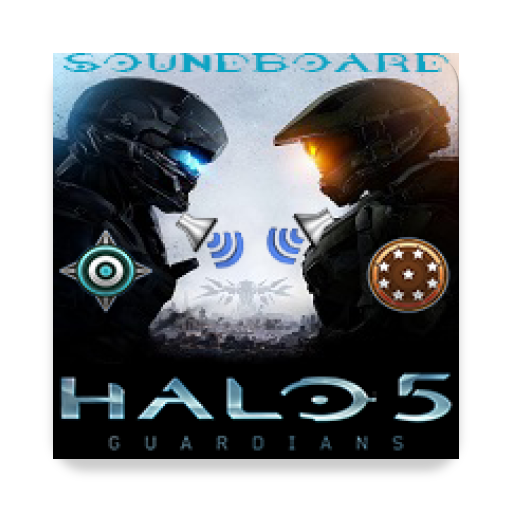
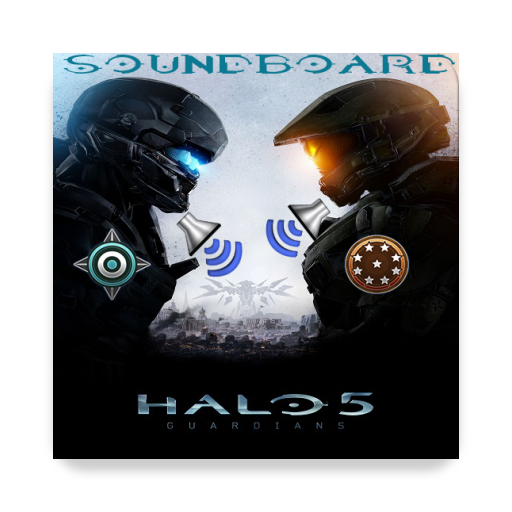
Changed borders to black and removed adMob test IDs

diff --git a/app/src/main/java/amardhebardevelopments/halo5soundboard/HumanWeaponsActivity3.java b/app/src/main/java/amardhebardevelopments/halo5soundboard/HumanWeaponsActivity3.java
@@ -1,6 +1,8 @@
 package amardhebardevelopments.halo5soundboard;
 
+import android.app.ActionBar;
 import android.content.Intent;
+import android.graphics.drawable.ColorDrawable;
 import android.media.MediaPlayer;
 import android.os.Bundle;
 import android.support.v7.app.AppCompatActivity;
@@ -11,6 +13,8 @@ import android.widget.ImageButton;
 import com.google.android.gms.ads.AdRequest;
 import com.google.android.gms.ads.AdView;
 
+import static android.graphics.Color.BLACK;
+
 public class HumanWeaponsActivity3 extends AppCompatActivity {
 
     private MediaPlayer mp;
@@ -19,11 +23,13 @@ public class HumanWeaponsActivity3 extends AppCompatActivity {
     protected void onCreate(Bundle savedInstanceState) {
         super.onCreate(savedInstanceState);
         setContentView(R.layout.activity_human_weapons3);
-
+        android.support.v7.app.ActionBar bar = getSupportActionBar();
+        bar.setBackgroundDrawable(new ColorDrawable(BLACK));
         AdView adView = (AdView) findViewById(R.id.adViewHumanWep3);
         AdRequest adRequest = new AdRequest.Builder()
-                .addTestDevice("B9F67AE6EA87F6D9C2361F8CB749E9CC")
-                .build();        adView.loadAd(adRequest);
+
+                .build();
+        adView.loadAd(adRequest);
 
         ImageButton halo1Pistol = (ImageButton) (findViewById(R.id.haloonepistol));
         ImageButton railgun = (ImageButton) (findViewById(R.id.railgun));

diff --git a/app/src/main/java/amardhebardevelopments/halo5soundboard/HumanWeaponsActivity5.java b/app/src/main/java/amardhebardevelopments/halo5soundboard/HumanWeaponsActivity5.java
@@ -1,6 +1,8 @@
 package amardhebardevelopments.halo5soundboard;
 
+import android.app.ActionBar;
 import android.content.Intent;
+import android.graphics.drawable.ColorDrawable;
 import android.media.MediaPlayer;
 import android.os.Bundle;
 import android.support.v7.app.AppCompatActivity;
@@ -11,6 +13,8 @@ import android.widget.ImageButton;
 import com.google.android.gms.ads.AdRequest;
 import com.google.android.gms.ads.AdView;
 
+import static android.graphics.Color.BLACK;
+
 public class HumanWeaponsActivity5 extends AppCompatActivity {
 
 
@@ -20,10 +24,11 @@ public class HumanWeaponsActivity5 extends AppCompatActivity {
     protected void onCreate(Bundle savedInstanceState) {
         super.onCreate(savedInstanceState);
         setContentView(R.layout.activity_human_weapons5);
-
+        android.support.v7.app.ActionBar bar = getSupportActionBar();
+        bar.setBackgroundDrawable(new ColorDrawable(BLACK));
         AdView adView = (AdView) findViewById(R.id.adViewHumanWep5);
         AdRequest adRequest = new AdRequest.Builder()
-                .addTestDevice("B9F67AE6EA87F6D9C2361F8CB749E9CC")
+
                 .build();        adView.loadAd(adRequest);
 
         ImageButton spartanLaser = (ImageButton) (findViewById(R.id.spartanlaser));

diff --git a/app/src/main/java/amardhebardevelopments/halo5soundboard/CovenantWeaponsActivity3.java b/app/src/main/java/amardhebardevelopments/halo5soundboard/CovenantWeaponsActivity3.java
@@ -1,14 +1,19 @@
 package amardhebardevelopments.halo5soundboard;
 
+import android.app.ActionBar;
 import android.content.Intent;
+import android.graphics.drawable.ColorDrawable;
 import android.media.MediaPlayer;
 import android.os.Bundle;
 import android.support.v7.app.AppCompatActivity;
 import android.view.View;
 import android.widget.Button;
 import android.widget.ImageButton;
+
 import com.google.android.gms.ads.AdRequest;
 import com.google.android.gms.ads.AdView;
+
+import static android.graphics.Color.BLACK;
 
 public class CovenantWeaponsActivity3 extends AppCompatActivity {
 
@@ -18,10 +23,12 @@ public class CovenantWeaponsActivity3 extends AppCompatActivity {
     protected void onCreate(Bundle savedInstanceState) {
         super.onCreate(savedInstanceState);
         setContentView(R.layout.activity_covenant_weapons3);
+                android.support.v7.app.ActionBar bar = getSupportActionBar();
+        bar.setBackgroundDrawable(new ColorDrawable(BLACK));
 
         AdView adView = (AdView) findViewById(R.id.adViewCovenantWep3);
         AdRequest adRequest = new AdRequest.Builder()
-                .addTestDevice("B9F67AE6EA87F6D9C2361F8CB749E9CC")
+
                 .build();
         adView.loadAd(adRequest);
 

diff --git a/app/src/main/java/amardhebardevelopments/halo5soundboard/PrometheanWeaponsActivity.java b/app/src/main/java/amardhebardevelopments/halo5soundboard/PrometheanWeaponsActivity.java
@@ -1,6 +1,8 @@
 package amardhebardevelopments.halo5soundboard;
 
+import android.app.ActionBar;
 import android.content.Intent;
+import android.graphics.drawable.ColorDrawable;
 import android.media.MediaPlayer;
 import android.os.Bundle;
 import android.support.v7.app.AppCompatActivity;
@@ -11,6 +13,8 @@ import android.widget.ImageButton;
 import com.google.android.gms.ads.AdRequest;
 import com.google.android.gms.ads.AdView;
 
+import static android.graphics.Color.BLACK;
+
 public class PrometheanWeaponsActivity extends AppCompatActivity {
 
     private MediaPlayer mp;
@@ -19,10 +23,11 @@ public class PrometheanWeaponsActivity extends AppCompatActivity {
     protected void onCreate(Bundle savedInstanceState) {
         super.onCreate(savedInstanceState);
         setContentView(R.layout.activity_promethean_weapons);
-
+        android.support.v7.app.ActionBar bar = getSupportActionBar();
+        bar.setBackgroundDrawable(new ColorDrawable(BLACK));
         AdView adView = (AdView) findViewById(R.id.adViewPrometheanWeps1);
         AdRequest adRequest = new AdRequest.Builder()
-                .addTestDevice("B9F67AE6EA87F6D9C2361F8CB749E9CC")
+
                 .build();
 
         adView.loadAd(adRequest);

diff --git a/app/src/main/java/amardhebardevelopments/halo5soundboard/HumanWeaponsActivity.java b/app/src/main/java/amardhebardevelopments/halo5soundboard/HumanWeaponsActivity.java
@@ -1,14 +1,19 @@
 package amardhebardevelopments.halo5soundboard;
 
+import android.app.ActionBar;
 import android.content.Intent;
+import android.graphics.drawable.ColorDrawable;
 import android.media.MediaPlayer;
 import android.os.Bundle;
 import android.support.v7.app.AppCompatActivity;
 import android.view.View;
 import android.widget.Button;
 import android.widget.ImageButton;
+
 import com.google.android.gms.ads.AdRequest;
 import com.google.android.gms.ads.AdView;
+
+import static android.graphics.Color.BLACK;
 
 public class HumanWeaponsActivity extends AppCompatActivity {
 
@@ -17,11 +22,12 @@ public class HumanWeaponsActivity extends AppCompatActivity {
     protected void onCreate(Bundle savedInstanceState) {
         super.onCreate(savedInstanceState);
         setContentView(R.layout.activity_human_weapon);
-
+        android.support.v7.app.ActionBar bar = getSupportActionBar();
+        bar.setBackgroundDrawable(new ColorDrawable(BLACK));
 
         AdView adView = (AdView) findViewById(R.id.adViewHumanWep1);
         AdRequest adRequest = new AdRequest.Builder()
-                .addTestDevice("B9F67AE6EA87F6D9C2361F8CB749E9CC")
+
                 .build();
         adView.loadAd(adRequest);
 

diff --git a/app/src/main/java/amardhebardevelopments/halo5soundboard/HumanWeaponsActivity4.java b/app/src/main/java/amardhebardevelopments/halo5soundboard/HumanWeaponsActivity4.java
@@ -1,6 +1,8 @@
 package amardhebardevelopments.halo5soundboard;
 
+import android.app.ActionBar;
 import android.content.Intent;
+import android.graphics.drawable.ColorDrawable;
 import android.media.MediaPlayer;
 import android.os.Bundle;
 import android.support.v7.app.AppCompatActivity;
@@ -11,6 +13,8 @@ import android.widget.ImageButton;
 import com.google.android.gms.ads.AdRequest;
 import com.google.android.gms.ads.AdView;
 
+import static android.graphics.Color.BLACK;
+
 public class HumanWeaponsActivity4 extends AppCompatActivity {
 
     private MediaPlayer mp;
@@ -18,10 +22,11 @@ public class HumanWeaponsActivity4 extends AppCompatActivity {
     protected void onCreate(Bundle savedInstanceState) {
         super.onCreate(savedInstanceState);
         setContentView(R.layout.activity_human_weapons4);
-
+        android.support.v7.app.ActionBar bar = getSupportActionBar();
+        bar.setBackgroundDrawable(new ColorDrawable(BLACK));
         AdView adView = (AdView) findViewById(R.id.adViewHumanWep4);
         AdRequest adRequest = new AdRequest.Builder()
-                .addTestDevice("B9F67AE6EA87F6D9C2361F8CB749E9CC")
+
                 .build();
         adView.loadAd(adRequest);
 

diff --git a/app/src/main/java/amardhebardevelopments/halo5soundboard/HumanWeaponsActivity2.java b/app/src/main/java/amardhebardevelopments/halo5soundboard/HumanWeaponsActivity2.java
@@ -1,6 +1,8 @@
 package amardhebardevelopments.halo5soundboard;
 
+import android.app.ActionBar;
 import android.content.Intent;
+import android.graphics.drawable.ColorDrawable;
 import android.media.MediaPlayer;
 import android.os.Bundle;
 import android.support.v7.app.AppCompatActivity;
@@ -11,6 +13,8 @@ import android.widget.ImageButton;
 import com.google.android.gms.ads.AdRequest;
 import com.google.android.gms.ads.AdView;
 
+import static android.graphics.Color.BLACK;
+
 public class HumanWeaponsActivity2 extends AppCompatActivity {
 
     private MediaPlayer mp;
@@ -19,9 +23,11 @@ public class HumanWeaponsActivity2 extends AppCompatActivity {
     protected void onCreate(Bundle savedInstanceState) {
         super.onCreate(savedInstanceState);
         setContentView(R.layout.activity_human_weapons2);
+        android.support.v7.app.ActionBar bar = getSupportActionBar();
+        bar.setBackgroundDrawable(new ColorDrawable(BLACK));
         AdView adView = (AdView) findViewById(R.id.adViewHumanWep2);
         AdRequest adRequest = new AdRequest.Builder()
-                .addTestDevice("B9F67AE6EA87F6D9C2361F8CB749E9CC")
+
                 .build();
         adView.loadAd(adRequest);
 

diff --git a/app/src/main/java/amardhebardevelopments/halo5soundboard/PrometheanWeaponsActivity2.java b/app/src/main/java/amardhebardevelopments/halo5soundboard/PrometheanWeaponsActivity2.java
@@ -1,6 +1,8 @@
 package amardhebardevelopments.halo5soundboard;
 
+import android.app.ActionBar;
 import android.content.Intent;
+import android.graphics.drawable.ColorDrawable;
 import android.media.MediaPlayer;
 import android.os.Bundle;
 import android.support.v7.app.AppCompatActivity;
@@ -10,6 +12,8 @@ import android.widget.ImageButton;
 
 import com.google.android.gms.ads.AdRequest;
 import com.google.android.gms.ads.AdView;
+
+import static android.graphics.Color.BLACK;
 
 
 public class PrometheanWeaponsActivity2 extends AppCompatActivity {
@@ -21,10 +25,10 @@ public class PrometheanWeaponsActivity2 extends AppCompatActivity {
     protected void onCreate(Bundle savedInstanceState) {
         super.onCreate(savedInstanceState);
         setContentView(R.layout.activity_promethean_weapons2);
-
+        android.support.v7.app.ActionBar bar = getSupportActionBar();
+        bar.setBackgroundDrawable(new ColorDrawable(BLACK));
         AdView adView = (AdView) findViewById(R.id.adViewPrometheanWeps2);
         AdRequest adRequest = new AdRequest.Builder()
-                .addTestDevice("B9F67AE6EA87F6D9C2361F8CB749E9CC")
                 .build();
         adView.loadAd(adRequest);
 

diff --git a/app/src/main/java/amardhebardevelopments/halo5soundboard/CovenantWeaponsActivity.java b/app/src/main/java/amardhebardevelopments/halo5soundboard/CovenantWeaponsActivity.java
@@ -1,6 +1,7 @@
 package amardhebardevelopments.halo5soundboard;
 
 import android.content.Intent;
+import android.graphics.drawable.ColorDrawable;
 import android.media.MediaPlayer;
 import android.os.Bundle;
 import android.support.v7.app.AppCompatActivity;
@@ -11,6 +12,8 @@ import android.widget.ImageButton;
 import com.google.android.gms.ads.AdRequest;
 import com.google.android.gms.ads.AdView;
 
+import static android.graphics.Color.BLACK;
+
 public class CovenantWeaponsActivity extends AppCompatActivity {
 
     MediaPlayer mp;
@@ -18,12 +21,13 @@ public class CovenantWeaponsActivity extends AppCompatActivity {
     @Override
     protected void onCreate(Bundle savedInstanceState) {
         super.onCreate(savedInstanceState);
+        android.support.v7.app.ActionBar bar = getSupportActionBar();
+        bar.setBackgroundDrawable(new ColorDrawable(BLACK));
 
         setContentView(R.layout.activity_covenant_weapons);
 
         AdView adView = (AdView) findViewById(R.id.adViewCovenantWep1);
         AdRequest adRequest = new AdRequest.Builder()
-                .addTestDevice("B9F67AE6EA87F6D9C2361F8CB749E9CC")
                 .build();
         adView.loadAd(adRequest);
 

diff --git a/app/src/main/java/amardhebardevelopments/halo5soundboard/CovenantWeaponsActivity2.java b/app/src/main/java/amardhebardevelopments/halo5soundboard/CovenantWeaponsActivity2.java
@@ -1,6 +1,8 @@
 package amardhebardevelopments.halo5soundboard;
 
+import android.app.ActionBar;
 import android.content.Intent;
+import android.graphics.drawable.ColorDrawable;
 import android.media.MediaPlayer;
 import android.os.Bundle;
 import android.support.v7.app.AppCompatActivity;
@@ -11,6 +13,8 @@ import android.widget.ImageButton;
 import com.google.android.gms.ads.AdRequest;
 import com.google.android.gms.ads.AdView;
 
+import static android.graphics.Color.BLACK;
+
 public class CovenantWeaponsActivity2 extends AppCompatActivity {
 
     private MediaPlayer mp;
@@ -20,9 +24,11 @@ public class CovenantWeaponsActivity2 extends AppCompatActivity {
         super.onCreate(savedInstanceState);
         setContentView(R.layout.activity_covenant_weapons2);
 
+        android.support.v7.app.ActionBar bar = getSupportActionBar();
+        bar.setBackgroundDrawable(new ColorDrawable(BLACK));
         AdView adView = (AdView) findViewById(R.id.adViewCovenantWep2);
         AdRequest adRequest = new AdRequest.Builder()
-                .addTestDevice("B9F67AE6EA87F6D9C2361F8CB749E9CC")
+
                 .build();
         adView.loadAd(adRequest);
 

diff --git a/app/src/main/java/amardhebardevelopments/halo5soundboard/MedalsActivity.java b/app/src/main/java/amardhebardevelopments/halo5soundboard/MedalsActivity.java
@@ -1,5 +1,7 @@
 package amardhebardevelopments.halo5soundboard;
 
+import android.app.ActionBar;
+import android.graphics.drawable.ColorDrawable;
 import android.media.MediaPlayer;
 import android.os.Bundle;
 import android.support.v7.app.AppCompatActivity;
@@ -9,6 +11,8 @@ import android.widget.ImageButton;
 import com.google.android.gms.ads.AdRequest;
 import com.google.android.gms.ads.AdView;
 
+import static android.graphics.Color.BLACK;
+
 public class MedalsActivity extends AppCompatActivity {
 
     private MediaPlayer mp;
@@ -16,10 +20,11 @@ public class MedalsActivity extends AppCompatActivity {
     protected void onCreate(Bundle savedInstanceState) {
         super.onCreate(savedInstanceState);
         setContentView(R.layout.activity_medals);
-
+        android.support.v7.app.ActionBar bar = getSupportActionBar();
+        bar.setBackgroundDrawable(new ColorDrawable(BLACK));
         AdView adView = (AdView) findViewById(R.id.adViewMedalsPage1);
         AdRequest adRequest = new AdRequest.Builder()
-                .addTestDevice("B9F67AE6EA87F6D9C2361F8CB749E9CC")
+
                 .build();
         adView.loadAd(adRequest);
 

diff --git a/app/src/main/java/amardhebardevelopments/halo5soundboard/MainActivity.java b/app/src/main/java/amardhebardevelopments/halo5soundboard/MainActivity.java
@@ -1,6 +1,8 @@
 package amardhebardevelopments.halo5soundboard;
 
+import android.app.ActionBar;
 import android.content.Intent;
+import android.graphics.drawable.ColorDrawable;
 import android.os.Bundle;
 import android.support.v7.app.AppCompatActivity;
 import android.view.View;
@@ -9,6 +11,8 @@ import android.widget.Button;
 import com.google.android.gms.ads.AdRequest;
 import com.google.android.gms.ads.AdView;
 
+import static android.graphics.Color.BLACK;
+
 
 public class MainActivity extends AppCompatActivity {
 
@@ -16,10 +20,11 @@ public class MainActivity extends AppCompatActivity {
     protected void onCreate(Bundle savedInstanceState) {
         super.onCreate(savedInstanceState);
         setContentView(R.layout.activity_main);
-
+        android.support.v7.app.ActionBar bar = getSupportActionBar();
+        bar.setBackgroundDrawable(new ColorDrawable(BLACK));
         AdView adView = (AdView) findViewById(R.id.adViewMainPage);
         AdRequest adRequest = new AdRequest.Builder()
-                .addTestDevice("B9F67AE6EA87F6D9C2361F8CB749E9CC")
+
                 .build();
         adView.loadAd(adRequest);
 
